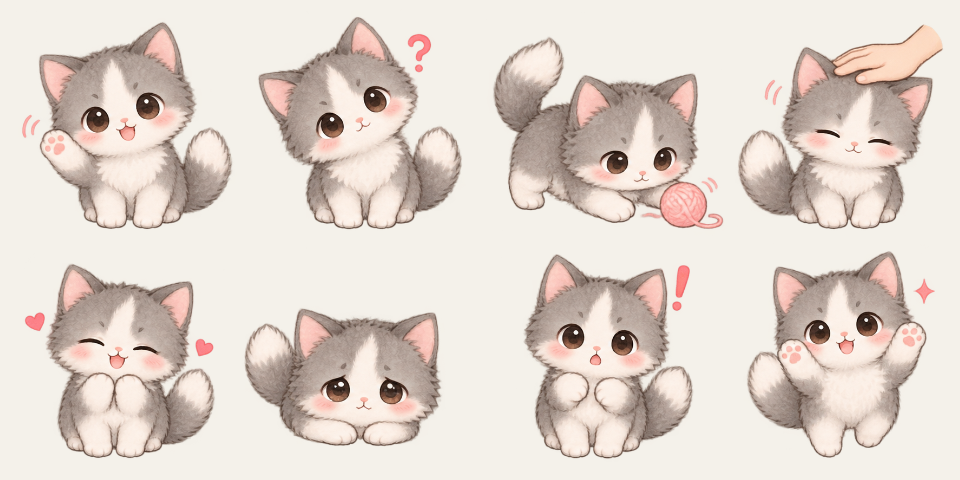
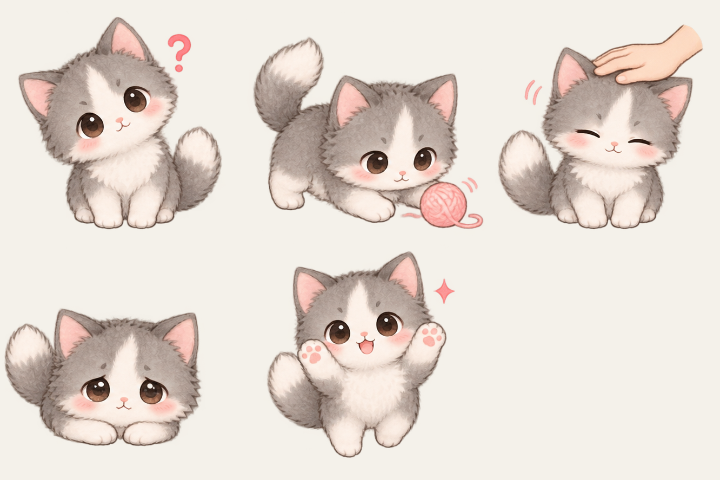
fix: remove deprecated interaction actions

diff --git a/src/Panel.xaml b/src/Panel.xaml
@@ -24,7 +24,7 @@ WindowStartupLocation="CenterScreen" Background="#F8F6F1" FontFamily="Microsoft 
 <Grid.RowDefinitions><RowDefinition Height="Auto"/><RowDefinition Height="22"/><RowDefinition Height="*"/><RowDefinition Height="Auto"/></Grid.RowDefinitions>
 <Grid>
 <StackPanel><TextBlock Text="T A M A G O   /   D E S K T O P   P E T" FontSize="10" Foreground="#89917B"/>
-<StackPanel Orientation="Horizontal" Margin="0,8,0,0"><TextBlock Text="玉子的小小世界" FontSize="26" FontWeight="SemiBold"/><Border Background="#ECEFE4" CornerRadius="8" Margin="14,5,0,5" Padding="10,4"><TextBlock Text="会感应你了 · v0.5.1" Foreground="#748263" FontSize="10"/></Border></StackPanel>
+<StackPanel Orientation="Horizontal" Margin="0,8,0,0"><TextBlock Text="玉子的小小世界" FontSize="26" FontWeight="SemiBold"/><Border Background="#ECEFE4" CornerRadius="8" Margin="14,5,0,5" Padding="10,4"><TextBlock Text="会感应你了 · v0.5.2" Foreground="#748263" FontSize="10"/></Border></StackPanel>
 <TextBlock Text="你忙你的，我会乖乖陪着你。" Margin="0,8,0,0" Foreground="#99938A" FontSize="12"/>
 </StackPanel>
 <Button x:Name="HidePanel" Content="收起面板 ↘" HorizontalAlignment="Right" VerticalAlignment="Top" Margin="0,7,0,0" Padding="14,9" Background="#F8F6F1"/>
@@ -66,15 +66,12 @@ WindowStartupLocation="CenterScreen" Background="#F8F6F1" FontFamily="Microsoft 
 <Button x:Name="ActionJump" Style="{StaticResource ActionButton}"><StackPanel><TextBlock Text="↑" FontSize="18" HorizontalAlignment="Center" Foreground="#A7AB99"/><TextBlock Text="跳跃" HorizontalAlignment="Center"/></StackPanel></Button>
 <Button x:Name="ActionAuto" Style="{StaticResource ActionButton}" Background="#EDF0E5"><StackPanel><TextBlock Text="∞" FontSize="18" HorizontalAlignment="Center" Foreground="#7B886B"/><TextBlock Text="自由活动" HorizontalAlignment="Center"/></StackPanel></Button>
 </UniformGrid>
-<Grid Grid.Row="2" Margin="0,5,0,10"><TextBlock Text="互动一下" FontSize="16" FontWeight="SemiBold"/><TextBlock Text="靠近时会看向你" HorizontalAlignment="Right" Foreground="#C0928B" FontSize="10" VerticalAlignment="Center"/></Grid>
-<UniformGrid Grid.Row="3" Columns="4" Rows="2" Margin="0,0,-9,0">
-<Button x:Name="InteractionWave" Style="{StaticResource InteractionButton}"><StackPanel><TextBlock Text="◡" FontSize="16" HorizontalAlignment="Center" Foreground="#D2A19B"/><TextBlock Text="挥手" HorizontalAlignment="Center"/></StackPanel></Button>
+<Grid Grid.Row="2" Margin="0,5,0,10"><TextBlock Text="互动一下" FontSize="16" FontWeight="SemiBold"/><TextBlock Text="五个小动作，靠近时会看向你" HorizontalAlignment="Right" Foreground="#C0928B" FontSize="10" VerticalAlignment="Center"/></Grid>
+<UniformGrid Grid.Row="3" Columns="3" Rows="2" Margin="0,0,-9,0">
 <Button x:Name="InteractionCurious" Style="{StaticResource InteractionButton}"><StackPanel><TextBlock Text="?" FontSize="16" HorizontalAlignment="Center" Foreground="#D2A19B"/><TextBlock Text="好奇" HorizontalAlignment="Center"/></StackPanel></Button>
 <Button x:Name="InteractionPlayYarn" Style="{StaticResource InteractionButton}"><StackPanel><TextBlock Text="⊙" FontSize="16" HorizontalAlignment="Center" Foreground="#D2A19B"/><TextBlock Text="毛线球" HorizontalAlignment="Center"/></StackPanel></Button>
 <Button x:Name="InteractionPetted" Style="{StaticResource InteractionButton}"><StackPanel><TextBlock Text="⌒" FontSize="16" HorizontalAlignment="Center" Foreground="#D2A19B"/><TextBlock Text="被摸" HorizontalAlignment="Center"/></StackPanel></Button>
-<Button x:Name="InteractionHappy" Style="{StaticResource InteractionButton}"><StackPanel><TextBlock Text="♡" FontSize="16" HorizontalAlignment="Center" Foreground="#D2A19B"/><TextBlock Text="开心" HorizontalAlignment="Center"/></StackPanel></Button>
 <Button x:Name="InteractionPout" Style="{StaticResource InteractionButton}"><StackPanel><TextBlock Text="…" FontSize="16" HorizontalAlignment="Center" Foreground="#D2A19B"/><TextBlock Text="委屈" HorizontalAlignment="Center"/></StackPanel></Button>
-<Button x:Name="InteractionSurprised" Style="{StaticResource InteractionButton}"><StackPanel><TextBlock Text="!" FontSize="16" HorizontalAlignment="Center" Foreground="#D2A19B"/><TextBlock Text="惊讶" HorizontalAlignment="Center"/></StackPanel></Button>
 <Button x:Name="InteractionExcited" Style="{StaticResource InteractionButton}"><StackPanel><TextBlock Text="✦" FontSize="16" HorizontalAlignment="Center" Foreground="#D2A19B"/><TextBlock Text="兴奋" HorizontalAlignment="Center"/></StackPanel></Button>
 </UniformGrid>
 <Border Grid.Row="5" Background="#FFFFFF" CornerRadius="16" BorderBrush="#EBE8E0" BorderThickness="1" Padding="18,16">

diff --git a/src/App.cs b/src/App.cs
@@ -15,8 +15,8 @@ using System.Windows.Media.Imaging;
 using System.Windows.Threading;
 using Forms=System.Windows.Forms;
 
-[assembly: AssemblyVersion("0.5.1.0")]
-[assembly: AssemblyFileVersion("0.5.1.0")]
+[assembly: AssemblyVersion("0.5.2.0")]
+[assembly: AssemblyFileVersion("0.5.2.0")]
 
 namespace Tamago {
     static class Program {
@@ -67,10 +67,8 @@ namespace Tamago {
     public sealed class InteractionBank {
         public readonly BitmapSource[] Frames=new BitmapSource[8];
         public readonly BitmapSource[,] AnimationFrames=new BitmapSource[3,3];
-        public readonly BitmapSource[] WaveAnimationFrames=new BitmapSource[3];
         public readonly BitmapSource Atlas;
         public readonly BitmapSource AnimationAtlas;
-        public readonly BitmapSource WaveAnimationAtlas;
         public InteractionBank() {
             using(Stream input=Assembly.GetExecutingAssembly().GetManifestResourceStream("tamago-interactions.png")) {
                 if(input==null)throw new FileNotFoundException("缺少互动动作素材，请重新运行 build.ps1。");
@@ -93,17 +91,6 @@ namespace Tamago {
                 int right=(int)Math.Floor((col+1)*AnimationAtlas.PixelWidth/3.0), bottom=(int)Math.Floor((row+1)*AnimationAtlas.PixelHeight/3.0);
                 CroppedBitmap crop=new CroppedBitmap(AnimationAtlas,new Int32Rect(x,y,right-x,bottom-y));
                 crop.Freeze(); AnimationFrames[row,col]=crop;
-            }
-            using(Stream input=Assembly.GetExecutingAssembly().GetManifestResourceStream("tamago-wave-animation.png")) {
-                if(input==null)throw new FileNotFoundException("缺少挥手动画素材，请重新运行 build.ps1。");
-                PngBitmapDecoder decoder=new PngBitmapDecoder(input,BitmapCreateOptions.PreservePixelFormat,BitmapCacheOption.OnLoad);
-                WaveAnimationAtlas=decoder.Frames[0]; WaveAnimationAtlas.Freeze();
-            }
-            for(int col=0;col<3;col++) {
-                int x=(int)Math.Floor(col*WaveAnimationAtlas.PixelWidth/3.0);
-                int right=(int)Math.Floor((col+1)*WaveAnimationAtlas.PixelWidth/3.0);
-                CroppedBitmap crop=new CroppedBitmap(WaveAnimationAtlas,new Int32Rect(x,0,right-x,WaveAnimationAtlas.PixelHeight));
-                crop.Freeze(); WaveAnimationFrames[col]=crop;
             }
         }
     }
@@ -308,7 +295,7 @@ namespace Tamago {
             Forms.ContextMenuStrip menu=new Forms.ContextMenuStrip();
             menu.Items.Add("打开动作面板",null,delegate {Dispatcher.Invoke(new Action(ShowPanel));});
             menu.Items.Add("玉子，说一句",null,delegate {Dispatcher.Invoke(new Action(SpeakNow));});
-            menu.Items.Add("互动动作",null,delegate {Dispatcher.Invoke(new Action(delegate { TriggerInteraction(PetInteraction.Wave,true); }));});
+            menu.Items.Add("互动动作",null,delegate {Dispatcher.Invoke(new Action(delegate { TriggerInteraction(PetInteraction.Petted,true); }));});
             menu.Items.Add("找回玉子",null,delegate {Dispatcher.Invoke(new Action(Home));});
             menu.Items.Add("退出玉子",null,delegate {Dispatcher.Invoke(new Action(Quit));});
             tray.ContextMenuStrip=menu;
@@ -354,13 +341,10 @@ namespace Tamago {
         }
         static string InteractionLabel(PetInteraction kind) {
             switch(kind) {
-                case PetInteraction.Wave:return "挥手打招呼";
                 case PetInteraction.Curious:return "好奇看看";
                 case PetInteraction.PlayYarn:return "玩毛线球";
                 case PetInteraction.Petted:return "被摸摸";
-                case PetInteraction.Happy:return "开心";
                 case PetInteraction.Pout:return "委屈";
-                case PetInteraction.Surprised:return "惊讶";
                 case PetInteraction.Excited:return "兴奋";
                 default:return "互动";
             }
@@ -490,8 +474,7 @@ namespace Tamago {
             bool looking=gaze.Active&&!interaction.Active;
             int frame=petted&&!moving&&engine.Action!=PetAction.Jump?2:engine.Frame;
             if(interaction.Active) {
-                BitmapSource animation=interaction.Kind==PetInteraction.Wave?interactionSprites.WaveAnimationFrames[interaction.AnimationFrame]:
-                    (interaction.HasAnimation?interactionSprites.AnimationFrames[interaction.AnimationRow,interaction.AnimationFrame]:interactionSprites.Frames[interaction.Frame]);
+                BitmapSource animation=interaction.HasAnimation?interactionSprites.AnimationFrames[interaction.AnimationRow,interaction.AnimationFrame]:interactionSprites.Frames[interaction.Frame];
                 petImage.Source=animation;previewImage.Source=animation;
             } else {
                 petImage.Source=sprites.Frames[frame];previewImage.Source=sprites.Frames[frame];
@@ -564,13 +547,10 @@ namespace Tamago {
                 checks.Add("PASS all 16 sprite frames decode");
                 foreach(BitmapSource frame in interactionSprites.Frames)if(frame.PixelWidth<1||frame.PixelHeight<1)throw new Exception("空互动动作帧");
                 checks.Add("PASS all 8 interaction frames decode");
-                for(int row=0;row<3;row++)for(int col=0;col<3;col++)
+                for(int row=1;row<3;row++)for(int col=0;col<3;col++)
                     if(interactionSprites.AnimationFrames[row,col].PixelWidth<1||interactionSprites.AnimationFrames[row,col].PixelHeight<1)
                         throw new Exception("空互动动画帧");
-                checks.Add("PASS all 9 interaction animation frames decode");
-                foreach(BitmapSource frame in interactionSprites.WaveAnimationFrames)
-                    if(frame.PixelWidth<1||frame.PixelHeight<1)throw new Exception("空挥手修复动画帧");
-                checks.Add("PASS all 3 corrected wave animation frames decode");
+                checks.Add("PASS all 6 active interaction animation frames decode");
                 engine.SetAction(PetAction.Idle,false);engine.Automatic=true;Refresh();ApplyLayout();
                 TestInteractionUi(checks);
                 CaptureInteractionSheet(Path.Combine(output,"interaction-preview.png"));
@@ -605,7 +585,7 @@ namespace Tamago {
             for(int i=0;i<30;i++)interaction.Tick(.1,false);
             if(engine.Action!=PetAction.Idle)throw new Exception("互动单独计时不应修改基础动作");
             interaction.Clear();interactionResumePending=true;interactionResume=PetAction.WalkRight;interactionResumeFacingLeft=false;
-            interaction.Start(PetInteraction.Wave);double elapsed=interaction.Elapsed;interaction.Tick(.1,true);
+            interaction.Start(PetInteraction.Curious);double elapsed=interaction.Elapsed;interaction.Tick(.1,true);
             if(interaction.Elapsed!=elapsed)throw new Exception("互动在阻塞时继续播放");
             for(int i=0;i<50;i++)interaction.Tick(.1,false);
             if(interaction.Active)throw new Exception("互动结束后未回到基础动作");
@@ -727,26 +707,27 @@ namespace Tamago {
         void CaptureInteractionSheet(string path) {
             DrawingVisual visual=new DrawingVisual();
             using(DrawingContext dc=visual.RenderOpen()) {
-                dc.DrawRectangle(Brush("#F4F1EA"),null,new Rect(0,0,960,480));
-                for(int i=0;i<interactionSprites.Frames.Length;i++)
-                    dc.DrawImage(interactionSprites.Frames[i],new Rect(i%4*240,i/4*240,240,240));
+                PetInteraction[] kinds={PetInteraction.Curious,PetInteraction.PlayYarn,PetInteraction.Petted,PetInteraction.Pout,PetInteraction.Excited};
+                dc.DrawRectangle(Brush("#F4F1EA"),null,new Rect(0,0,720,480));
+                for(int i=0;i<kinds.Length;i++)
+                    dc.DrawImage(interactionSprites.Frames[(int)kinds[i]-1],new Rect(i%3*240,i/3*240,240,240));
             }
-            RenderTargetBitmap bitmap=new RenderTargetBitmap(960,480,96,96,PixelFormats.Pbgra32);bitmap.Render(visual);
+            RenderTargetBitmap bitmap=new RenderTargetBitmap(720,480,96,96,PixelFormats.Pbgra32);bitmap.Render(visual);
             PngBitmapEncoder encoder=new PngBitmapEncoder();encoder.Frames.Add(BitmapFrame.Create(bitmap));
             using(FileStream stream=File.Create(path))encoder.Save(stream);
         }
         void CaptureInteractionAnimationSheet(string path) {
             DrawingVisual visual=new DrawingVisual();
             using(DrawingContext dc=visual.RenderOpen()) {
-                dc.DrawRectangle(Brush("#F4F1EA"),null,new Rect(0,0,720,720));
-                for(int row=0;row<3;row++) {
+                dc.DrawRectangle(Brush("#F4F1EA"),null,new Rect(0,0,720,480));
+                for(int row=0;row<2;row++) {
                     for(int col=0;col<3;col++) {
-                        BitmapSource frame=row==0?interactionSprites.WaveAnimationFrames[col]:interactionSprites.AnimationFrames[row,col];
+                        BitmapSource frame=interactionSprites.AnimationFrames[row+1,col];
                         dc.DrawImage(frame,new Rect(col*240,row*240,240,240));
                     }
                 }
             }
-            RenderTargetBitmap bitmap=new RenderTargetBitmap(720,720,96,96,PixelFormats.Pbgra32);bitmap.Render(visual);
+            RenderTargetBitmap bitmap=new RenderTargetBitmap(720,480,96,96,PixelFormats.Pbgra32);bitmap.Render(visual);
             PngBitmapEncoder encoder=new PngBitmapEncoder();encoder.Frames.Add(BitmapFrame.Create(bitmap));
             using(FileStream stream=File.Create(path))encoder.Save(stream);
         }

diff --git a/src/Interaction.cs b/src/Interaction.cs
@@ -3,25 +3,25 @@ using System.Collections.ObjectModel;
 
 namespace Tamago {
     public enum PetInteraction {
-        None=0, Wave, Curious, PlayYarn, Petted, Happy, Pout, Surprised, Excited
+        // Keep the historical numeric slots so saved state and sprite indexes remain compatible.
+        None=0, Curious=2, PlayYarn=3, Petted=4, Pout=6, Excited=8
     }
 
     public sealed class InteractionState {
         static readonly double[] Durations={0,2.25,2.7,3.4,2.1,2.2,2.55,1.8,2.0};
-        // Wave, yarn, and petting each have a three-frame row in the v0.5 animation atlas.
+        // Yarn and petting each have a three-frame row in the v0.5 animation atlas.
         static readonly int[] AnimationRows={-1,0,-1,2,1,-1,-1,-1,-1};
         static readonly ReadOnlyCollection<string> Labels=Array.AsReadOnly(new[] {
-            "", "挥手打招呼", "发现了什么？", "玩毛线球", "被摸摸了", "开心满格", "有一点委屈", "吓了一跳", "兴奋起飞"
+            "", "", "发现了什么？", "玩毛线球", "被摸摸了", "", "有一点委屈", "", "兴奋起飞"
         });
         static readonly ReadOnlyCollection<string> Lines=Array.AsReadOnly(new[] {
-            "", "嗨～", "咦？", "抓到啦！", "呼噜呼噜～", "好开心呀！", "再陪我一会儿嘛……", "啊！", "嘿咻！"
+            "", "", "咦？", "抓到啦！", "呼噜呼噜～", "", "再陪我一会儿嘛……", "", "嘿咻！"
         });
         // These are the little gestures Tamago can decide to play on her own.
         // "Petted" stays user initiated because it represents a real mouse touch.
         public static readonly ReadOnlyCollection<PetInteraction> AmbientKinds=Array.AsReadOnly(new[] {
-            PetInteraction.Wave, PetInteraction.Curious, PetInteraction.PlayYarn,
-            PetInteraction.Happy, PetInteraction.Pout, PetInteraction.Surprised,
-            PetInteraction.Excited
+            PetInteraction.Curious, PetInteraction.PlayYarn,
+            PetInteraction.Pout, PetInteraction.Excited
         });
         public PetInteraction Kind { get; private set; }
         public double Elapsed { get; private set; }
@@ -43,8 +43,7 @@ namespace Tamago {
             get {
                 if(!Active)return 0;
                 double progress=Math.Min(1,Elapsed/Duration);
-                if(Kind==PetInteraction.Excited||Kind==PetInteraction.Happy)return Math.Sin(progress*Math.PI)*8;
-                if(Kind==PetInteraction.Wave)return Math.Sin(progress*Math.PI)*3;
+                if(Kind==PetInteraction.Excited)return Math.Sin(progress*Math.PI)*8;
                 return 0;
             }
         }

diff --git a/src/Tests.cs b/src/Tests.cs
@@ -21,9 +21,9 @@ namespace Tamago {
                 state.Clear();
             }
             state.Start(PetInteraction.PlayYarn);Check(state.Line.Contains("抓到"),"interaction includes a playful response");
-            Check(InteractionState.LabelFor(PetInteraction.Wave)=="挥手打招呼","interaction label is localized");
-            int[] animatedRows={0,1,2};
-            PetInteraction[] animatedKinds={PetInteraction.Wave,PetInteraction.Petted,PetInteraction.PlayYarn};
+            Check(InteractionState.LabelFor(PetInteraction.Petted)=="被摸摸了","interaction label is localized");
+            int[] animatedRows={1,2};
+            PetInteraction[] animatedKinds={PetInteraction.Petted,PetInteraction.PlayYarn};
             for(int i=0;i<animatedKinds.Length;i++) {
                 state.Start(animatedKinds[i]);
                 Check(state.HasAnimation&&state.AnimationRow==animatedRows[i]&&state.AnimationFrame==0,"animated interaction starts on first frame "+animatedKinds[i]);
@@ -52,6 +52,8 @@ namespace Tamago {
         }
         static void TestInteractionScheduler() {
             InteractionScheduler scheduler=new InteractionScheduler(new Random(17));
+            Check(Enum.GetValues(typeof(PetInteraction)).Length==6&&InteractionState.AmbientKinds.Count==4,
+                "removed interactions are absent from the enum and autonomous candidates");
             Check(scheduler.Enabled,"autonomous interactions start enabled");
             Check(scheduler.NextDue>=12&&scheduler.NextDue<=22,"first autonomous gesture is scheduled after startup grace period");
             double due=scheduler.NextDue;

diff --git a/README.md b/README.md
@@ -1,34 +1,32 @@
-# 玉子 · 桌面宠物 v0.5.1
+# 玉子 · 桌面宠物 v0.5.2
 
 参照用户提供的灰白猫咪设定图制作的 Windows 桌宠。采用原生 C# / WPF，猫咪直接悬浮在桌面上，背景透明；附带独立动作面板与托盘菜单。
 
 ## 第五版：更自然的互动
 
-挥手、被摸摸和玩毛线球已经改为三帧连续动画：挥手会抬爪再收回，摸头有手掌靠近、轻抚和开心收尾，毛线球会从注视到伸爪拨动。其余互动仍保留原来的独立姿势。
-
-挥手素材已在 v0.5.1 修正：抬爪帧只保留一只抬起的前爪和一只落地的前爪，避免重复肢体。
+被摸摸和玩毛线球使用三帧连续动画：摸头有手掌靠近、轻抚和收尾，毛线球会从注视到伸爪拨动。好奇、委屈和兴奋保留独立姿势。
 
 当鼠标靠近待机、坐下或趴着的玉子时，她会朝鼠标方向转身、轻轻歪头并在状态栏显示“正在看着你”。鼠标离开，或玉子正在走路、睡觉、跳跃、拖动和互动时，视线会平滑复位并让当前行为优先。
 
-![三段互动动画](docs/images/interaction-animation-preview.png)
+![两段互动动画](docs/images/interaction-animation-preview.png)
 
 ## 第四版：玉子会自己互动
 
-开启“自由活动”后，玉子会在待机、坐下或趴着时每隔一段时间自己选择一个小动作：挥手、好奇看看、玩毛线球、开心、委屈、惊讶或兴奋。首次自主互动会先等待约 12–22 秒，之后通常间隔 20–45 秒，并且不会连续重复同一个动作。
+开启“自由活动”后，玉子会在待机、坐下或趴着时每隔一段时间自己选择一个小动作：好奇看看、玩毛线球、委屈或兴奋。首次自主互动会先等待约 12–22 秒，之后通常间隔 20–45 秒，并且不会连续重复同一个动作。
 
 睡觉、跳跃、拖拽、移动、对话气泡或另一段互动进行时会暂缓调度；当前状态结束后继续等待。手动点击互动按钮、右键菜单和摸摸仍然立即响应。面板的“互动一下”标题旁会提示当前的自主互动规则。
 
 ## 第三版：互动动作
 
-参考图中的互动动作已经接入桌面窗口和动作面板：挥手、好奇、玩毛线球、被摸、开心、委屈、惊讶、兴奋。每个动作使用独立的透明素材帧，点击互动按钮或右键菜单即可播放；动作结束后回到之前的基础陪伴状态。
+参考图中的互动动作已经接入桌面窗口和动作面板：好奇、玩毛线球、被摸、委屈、兴奋。每个动作使用独立的透明素材帧，点击互动按钮或右键菜单即可播放；动作结束后回到之前的基础陪伴状态。
 
 - 单击猫咪会播放“被摸摸”，睡着时会先醒来；正在移动时会暂停移动再回应。
-- 面板新增“互动一下”区域，右键猫咪也可直接选择 8 个互动动作。
+- 面板新增“互动一下”区域，右键猫咪也可直接选择 5 个互动动作。
 - 互动动作会短暂暂停随机气泡，手动触发时会配合简短回应；拖拽、睡觉和跳跃仍然优先。
 - 互动动作带轻微的上下弹动，素材中的问号、感叹号、爱心、毛线球和手掌装饰保留参考图的轻盈感觉。
 - 自主互动使用同一套动作帧和状态机，结束后保留原来的自由活动状态。
 
-![八个互动动作](docs/images/interaction-preview.png)
+![五个互动动作](docs/images/interaction-preview.png)
 
 ## 第二版：随机对话气泡
 
@@ -72,7 +70,7 @@
 | 睡觉 | 蜷缩睡姿、缓慢呼吸和浮动 Zzz |
 | 跳跃 | 跃起后自动回到之前的动作 |
 | 自由活动 | 随机切换待机、散步、坐下、趴下与睡觉 |
-| 互动动作 | 挥手、好奇、毛线球、被摸、开心、委屈、惊讶、兴奋 |
+| 互动动作 | 好奇、毛线球、被摸、委屈、兴奋 |
 | 自主互动 | 自由活动时按间隔自动播放小动作，忙碌状态会暂缓 |
 | 鼠标感应 | 靠近静止的玉子时，她会看向鼠标并轻轻歪头 |
 
@@ -84,7 +82,7 @@
 - 鼠标靠近待机、坐下或趴着的玉子，她会看向你；无需点击。
 - 单击摸摸：播放被摸互动、眯眼并冒爱心；睡着时会醒来。
 - 双击跳跃；右键打开动作菜单。
-- 右键菜单或面板的“互动一下”区域可选择挥手、好奇、毛线球、开心、委屈、惊讶和兴奋。
+- 右键菜单或面板的“互动一下”区域可选择好奇、毛线球、被摸、委屈和兴奋。
 - 面板可调节体型、步速和是否置顶。
 - “找回玉子”将猫咪放回主屏工作区右下方。
 - 面板右上角关闭、收起按钮或 Esc 只收起面板，猫咪继续陪伴。
@@ -96,14 +94,13 @@
 ## 源码与构建
 
 - `src/PetEngine.cs`：动作、移动、边界控制与设置序列化。
-- `src/Interaction.cs`：8 个互动动作的状态、三帧映射、鼠标视线状态与自主互动调度。
+- `src/Interaction.cs`：5 个互动动作的状态、三帧映射、鼠标视线状态与自主互动调度。
 - `src/App.cs`：透明桌面窗口、面板绑定、拖拽、托盘、基础动画、互动动画、鼠标感应与气泡渲染。
 - `src/Dialogue.cs`：参考图六句文案、随机轮换、间隔和互动避让。
 - `src/Panel.xaml`：原生动作面板。
 - `assets/tamago-sprites.png`：内置 imagegen 生成的 16 帧透明动作图。
 - `assets/tamago-interactions.png`：内置 imagegen 生成的 8 帧透明互动动作图。
-- `assets/tamago-interaction-animations.png`：内置 imagegen 生成的摸头、毛线球连续动作与原始挥手图集。
-- `assets/tamago-wave-animation.png`：修复肢体数量后的三帧挥手专用图；程序优先使用它。
+- `assets/tamago-interaction-animations.png`：内置 imagegen 生成的摸头、毛线球连续动作图集。
 - `assets/PROMPT.md`：素材生成方式、参考图处理说明与完整提示词。
 - `build.ps1`：使用系统 .NET Framework 编译器构建。
 - `test.ps1`：编译并运行动作引擎验证和原生界面冒烟验证。
@@ -119,7 +116,7 @@ powershell.exe -NoProfile -ExecutionPolicy Bypass -File .\test.ps1
 
 ## 验证与范围
 
-已验证 8 个互动动作的按钮映射、9 个连续互动帧与 3 个修复后的挥手帧解码、被摸唤醒、移动暂停、阻塞暂停和生命周期；已验证三段互动的首帧、中间帧映射和鼠标感应的左右看向、歪头、离开复位；已验证自主互动的首次等待、随机间隔、忙碌暂缓、开关和连续防重复；验证日志与互动动作联系图位于 `output/`。
+已验证 5 个互动动作的按钮映射、6 个连续互动帧解码、被摸唤醒、移动暂停、阻塞暂停和生命周期；已验证两段互动的首帧、中间帧映射和鼠标感应的左右看向、歪头、离开复位；已验证自主互动的首次等待、随机间隔、忙碌暂缓、开关和连续防重复；验证日志与互动动作联系图位于 `output/`。
 
 已验证随机发言间隔、整轮文案覆盖、跨轮防重复、开关持久化、旧版设置兼容、手动预览、互动避让与气泡淡入淡出；六句文案在三种体型下均通过边界检查，收起面板后也通过真实计时器发言验证。
 
@@ -127,4 +124,4 @@ powershell.exe -NoProfile -ExecutionPolicy Bypass -File .\test.ps1
 
 已人工查看面板、全部动作帧与六句气泡的渲染截图。原生鼠标拖动手势、多显示器热插拔、不同屏幕缩放比例与长时间运行仍建议在实际使用中继续验证。
 
-第五版在基础动作、随机气泡和自主互动上加入三段多帧互动动画与本地鼠标感应，不包含自由输入的 AI 对话、语音、联网功能或开机启动。猫咪为参考风格重新生成的角色素材，并非逐像素还原原图。
+第五版在基础动作、随机气泡和自主互动上加入两段多帧互动动画与本地鼠标感应，不包含自由输入的 AI 对话、语音、联网功能或开机启动。猫咪为参考风格重新生成的角色素材，并非逐像素还原原图。

diff --git a/assets/PROMPT.md b/assets/PROMPT.md
@@ -8,7 +8,7 @@ Use case: stylized-concept. Asset type: production sprite atlas for a Windows de
 
 ## 第三版互动素材
 
-使用内置 imagegen，以 `tamago-sprites.png` 作为角色与画风参考生成 4×2 透明互动动作图。八个单元格依次为：挥手、好奇、玩毛线球、被摸、开心、委屈、惊讶、兴奋。素材要求保留灰白猫咪、粉色耳朵、脸部白斑、暖灰铅笔线和柔和水彩质感，同时保留参考图里的小问号、感叹号、爱心、毛线球、手掌等轻量装饰。
+使用内置 imagegen，以 `tamago-sprites.png` 作为角色与画风参考生成 4×2 透明互动动作图。程序当前注册的互动动作是：好奇、玩毛线球、被摸、委屈、兴奋；图集中其余历史姿势仅作为素材存档，不会被界面或状态机触发。素材要求保留灰白猫咪、粉色耳朵、脸部白斑、暖灰铅笔线和柔和水彩质感，同时保留参考图里的小问号、毛线球、手掌等轻量装饰。
 
 ```text
 Use case: stylized-concept. Asset type: transparent interaction sprite atlas for the same Windows desktop pet. Image 1 is the existing character and art style reference; preserve this exact fluffy gray-and-white kitten identity, proportions, warm pencil outline, soft watercolor shading, pink inner ears, blush, huge shiny dark brown eyes, white face blaze and chest, gray cap and fluffy tail. Generate a 2048x1024 image with genuinely transparent alpha, no checkerboard and no white background, exactly 4 columns x 2 rows, 8 equal invisible cells. No grid lines, no text, no labels, no watermark, no floor, no drop shadow. One complete cat per cell with generous transparent padding, same scale and baseline. Interaction sheet cell order left to right, top row: waving hello; curious with a small question mark; playing with a small pale pink yarn ball; being petted by one simple light skin-tone hand. Bottom row: happy with tiny pink hearts; pouty or wronged; surprised with a tiny exclamation mark; excited with one tiny pink sparkle. Keep all cell content fully inside its cell and preserve transparency.
@@ -16,16 +16,8 @@ Use case: stylized-concept. Asset type: transparent interaction sprite atlas for
 
 ## 第五版连续互动素材
 
-使用内置 imagegen，以 `tamago-interactions.png` 为画风和角色参考生成 `tamago-interaction-animations.png`。这是一张 3×3 透明图集：第一行是挥手的准备、抬爪和收回；第二行是摸头的靠近、轻抚和开心收尾；第三行是看毛线球、伸爪和拨球。
+使用内置 imagegen，以 `tamago-interactions.png` 为画风和角色参考生成 `tamago-interaction-animations.png`。这是一张 3×3 透明图集：第二行是摸头的靠近、轻抚和收尾；第三行是看毛线球、伸爪和拨球。第一行是历史素材，当前版本不会渲染或触发。
 
 ```text
-Use case: illustration-story. Asset type: transparent PNG sprite atlas for a Windows desktop pet. Input image: the existing interaction atlas is a style and character reference only. Create one precise 3 columns by 3 rows animation atlas with nine evenly sized cells. Use the same fluffy grey-and-white kitten in every cell: round body, white face blaze and chest, brown eyes, pink ears and cheeks, soft hand-drawn pastel watercolor linework. Row 1, left to right: paw down preparing to wave; paw raised at the peak; paw returning with two subtle pink motion lines. Row 2: a gentle human hand approaches above the head; hand softly strokes the head while the kitten closes eyes happily; hand lifts away while the kitten keeps a delighted expression with one tiny pink heart. Row 3: kitten watches a small pink yarn ball; reaches one paw toward it; taps it so the ball rolls slightly with one short curved motion line. Exactly nine equal cells in a uniform 3×3 grid; each cell has a full kitten centered with consistent scale and transparent padding. Fully transparent background, no shadows, no ground, no checkerboard, no labels, no numbers, no borders, no grid lines, no logo, no watermark, no extra characters.
-```
-
-## v0.5.1 挥手肢体修复
-
-原挥手的抬爪帧含有重复的落地前爪，因此新增 `tamago-wave-animation.png` 并由程序优先使用。图集为一行三帧：静止、抬爪、收回；抬爪帧严格只有一只抬起的前爪和一只落地的前爪。
-
-```text
-Use case: precise-object-edit. Asset type: transparent three-frame waving kitten animation. The exact character and watercolor style are preserved. Cell 1 has both front paws on the ground. In cells 2 and 3 there are exactly TWO visible front paws: one raised or lowering paw on the viewer's left and one grounded paw on the viewer's right. Remove the duplicate grounded paw under the raised limb and leave blank space there. Every kitten has exactly four paws total. No extra legs, floating paws, duplicate limbs, props, text, borders, grid, shadow, or watermark. Keep alpha transparency.
+Use case: illustration-story. Asset type: transparent PNG sprite atlas for a Windows desktop pet. Input image: the existing interaction atlas is a style and character reference only. Create one precise 3 columns by 3 rows animation atlas with nine evenly sized cells. Use the same fluffy grey-and-white kitten in every cell: round body, white face blaze and chest, brown eyes, pink ears and cheeks, soft hand-drawn pastel watercolor linework. Row 1 is reserved legacy material and is not rendered. Row 2: a gentle human hand approaches above the head; hand softly strokes the head while the kitten closes eyes; hand lifts away while the kitten keeps a content expression. Row 3: kitten watches a small pink yarn ball; reaches one paw toward it; taps it so the ball rolls slightly with one short curved motion line. Exactly nine equal cells in a uniform 3×3 grid; each cell has a full kitten centered with consistent scale and transparent padding. Fully transparent background, no shadows, no ground, no checkerboard, no labels, no numbers, no borders, no grid lines, no logo, no watermark, no extra characters.
 ```
